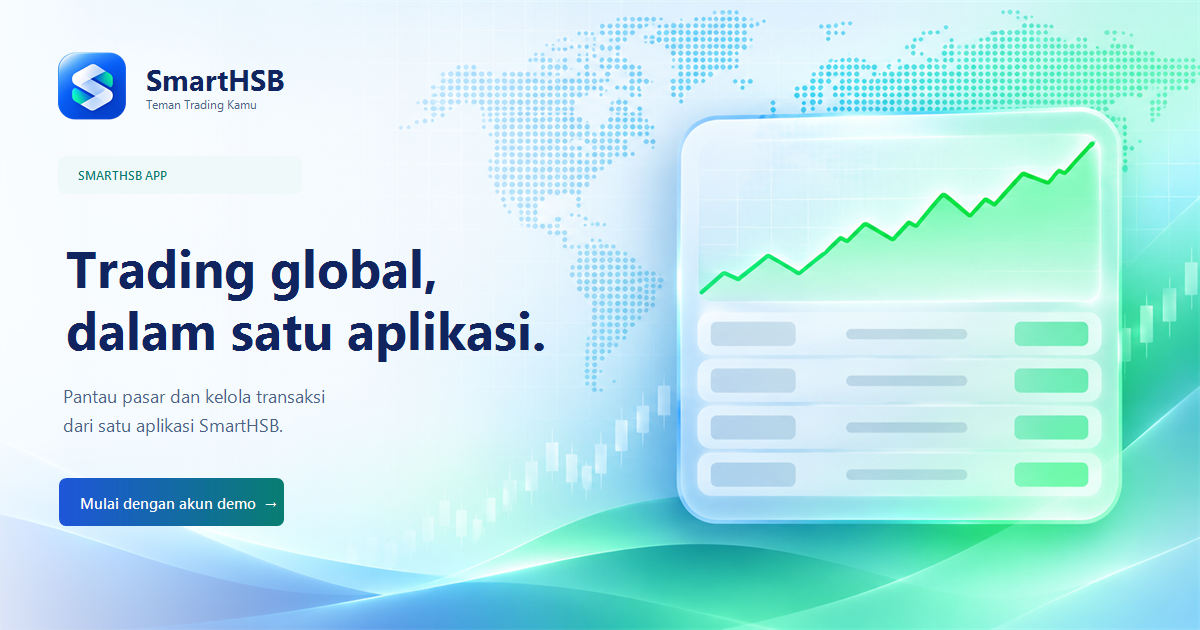
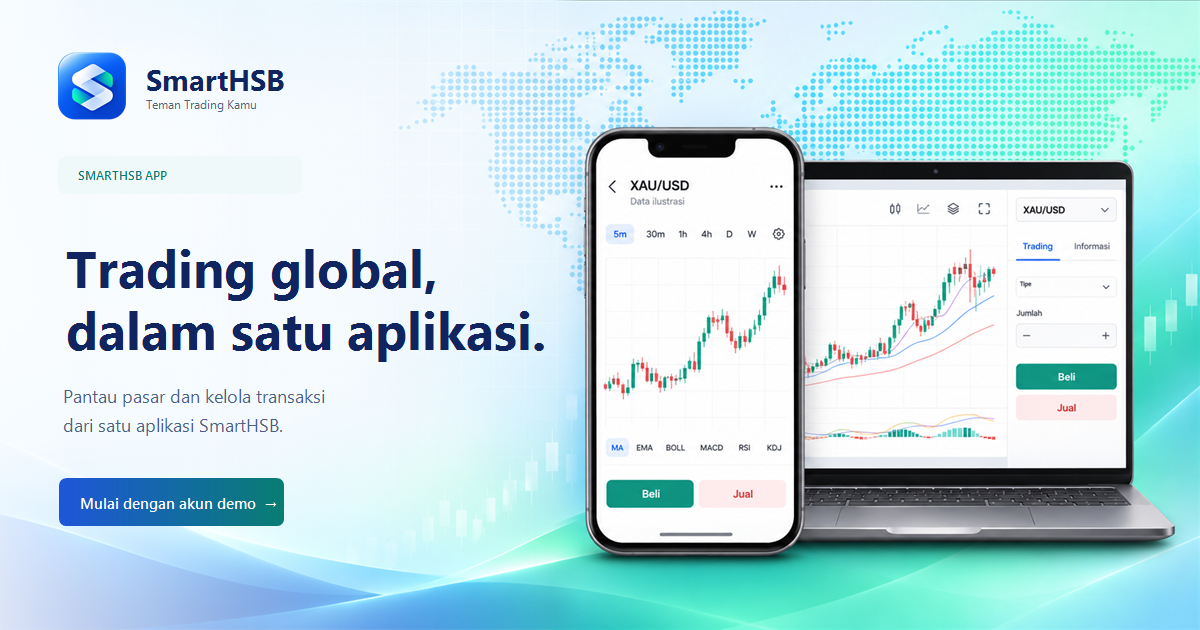
design: refine SmartHSB share cover devices

diff --git a/WORKLOG.md b/WORKLOG.md
@@ -20,3 +20,9 @@
 - 需求：重做 `og-cover.png`，解决原分享图含中文和旧版图标的问题；保持文件名不变。
 - 实施：以蓝、钴蓝、青绿和浅色背景重建 1200 × 630 分享卡片。左侧使用现行 `logo-s-app.png` 和 SmartHSB 品牌，文案统一为印尼语：「Trading global, dalam satu aplikasi.」「Pantau pasar dan kelola transaksi dari satu aplikasi SmartHSB.」「Mulai dengan akun demo」。右侧保留全球地图、行情卡片和上行图形。
 - 验证：新图尺寸为 1200 × 630；无中文、无 HSB KITA 旧图标；所有页面继续引用同一固定路径 `assets/img/og-cover.png`，无需更改页面元数据。
+
+## 分享预览图 · 手机与笔电构图
+
+- 目标：将右侧行情卡片换为手机在前、笔电在后的构图，保留左侧 SmartHSB 品牌、印尼语文案和蓝绿背景。继续使用 1200 × 630 的 `og-cover.png`。
+- 完成：用内置图像生成工具改为双设备示意图，手机屏幕标明「Data ilustrasi」。导出并逐像素比对左侧 553 × 630 区域，差异为 0。正式目录 37 个页面继续引用原文件名，`git diff --check` 通过。
+- 发布：只发布图片，远端提交 `5f54028` 对应 Pages run `45131569221` 成功。公开 Pages 图片 HTTP 200，SHA-256 与本地一致。现有 `og:image` 指向 `www.smarthsb.co.id`，该域名返回的内容与新版不同，仍需通过该域名的发布流程同步或在确认后更改图片来源。
